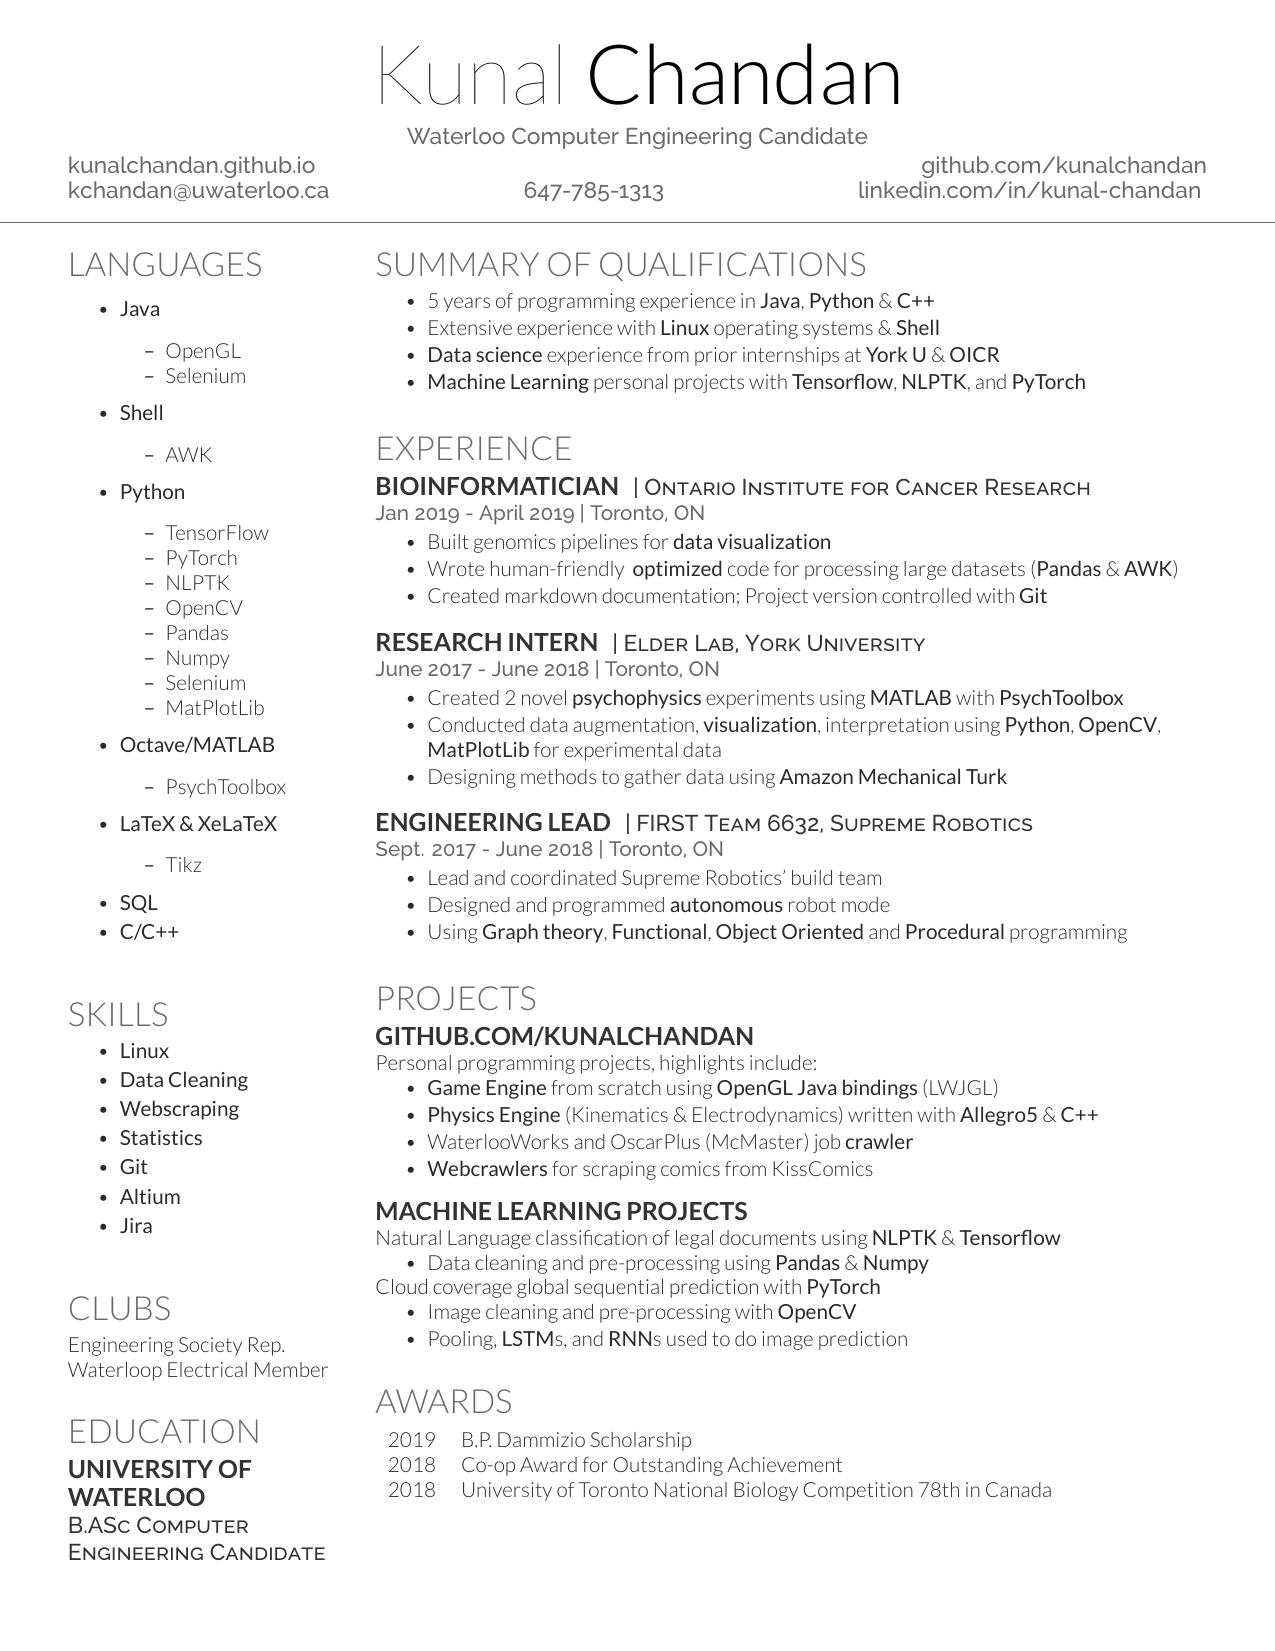
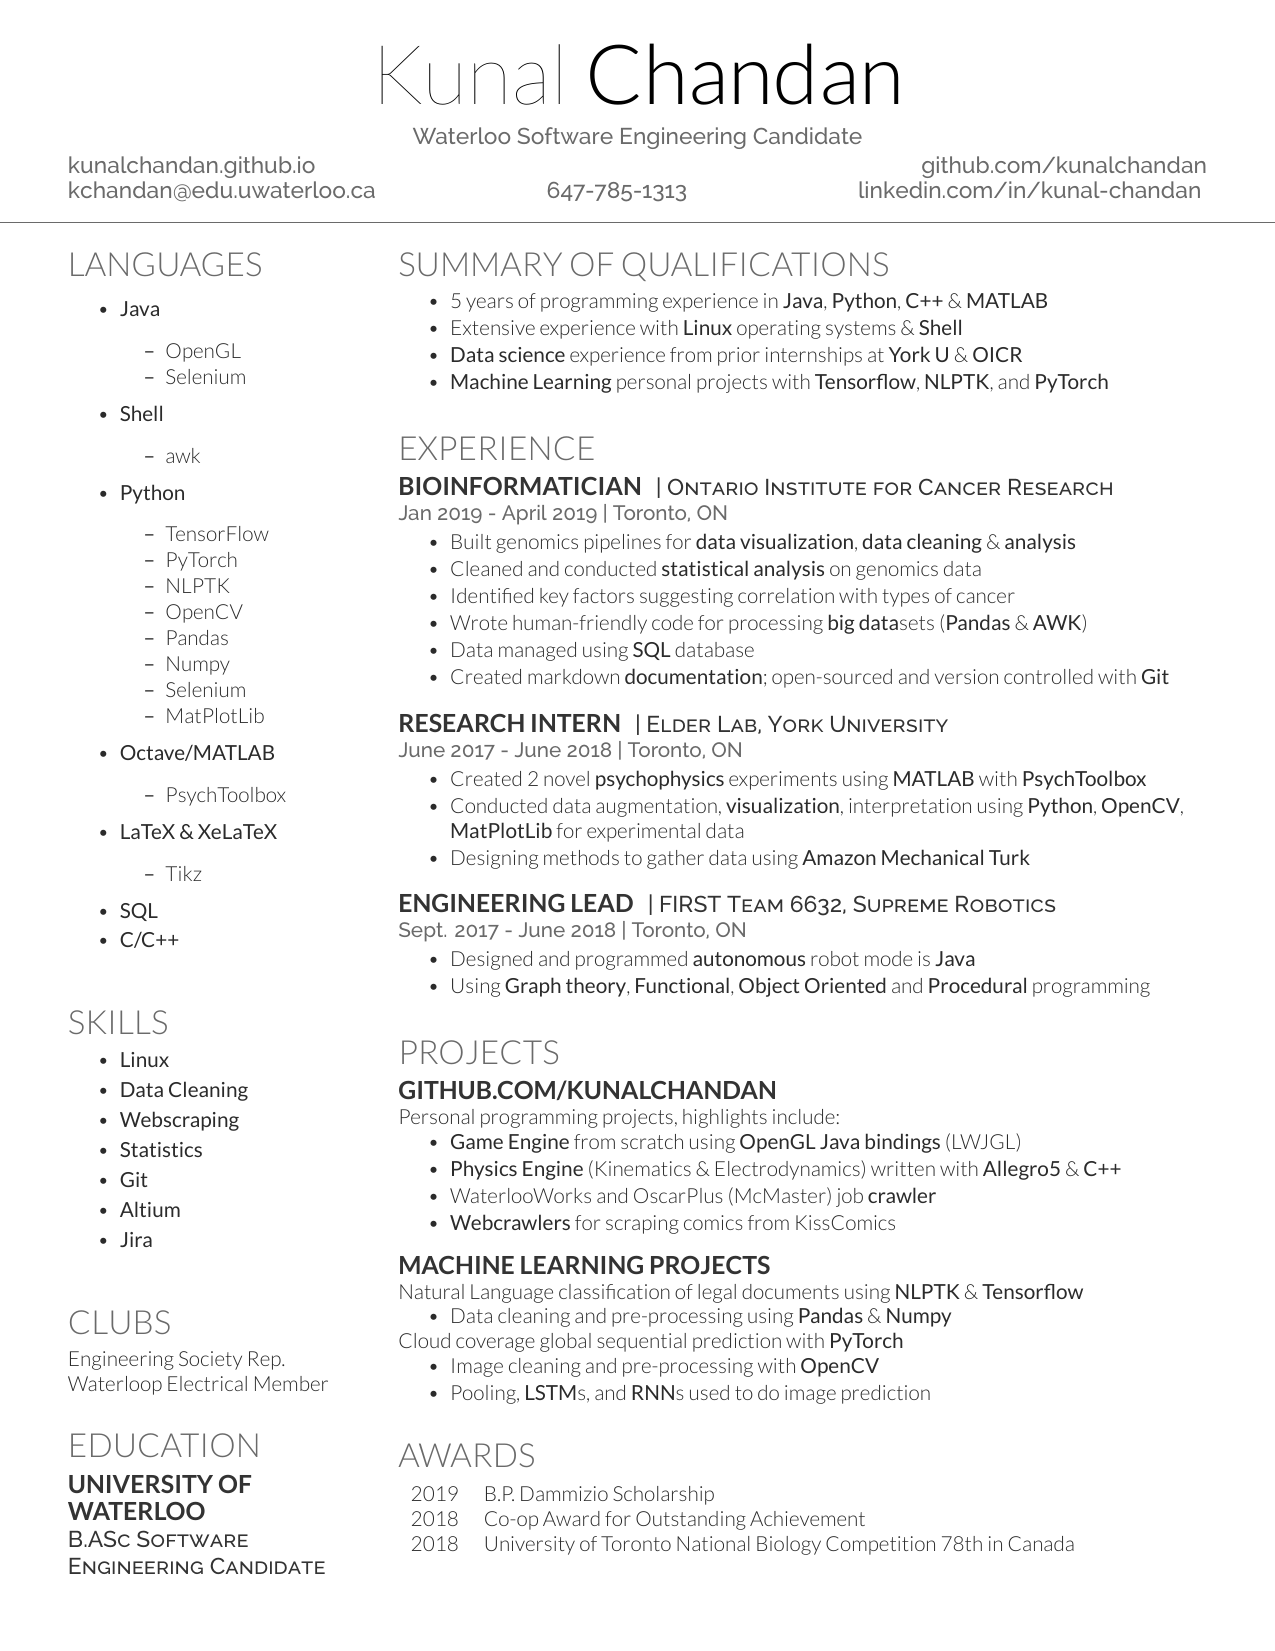
Edits before SE Resume Critique

diff --git a/Resume/Resume-Clean/chandan.tex b/Resume/Resume-Clean/chandan.tex
@@ -31,11 +31,11 @@
 \namesection{Kunal}{Chandan}
 {
 	\urlstyle{same}
-	Waterloo Computer Engineering Candidate \\
+	Waterloo Software Engineering Candidate \\
 	\href{http://kunalchandan.github.io}{kunalchandan.github.io}
 	\hfill
 	\href{http://github.com/kunalchandan}{github.com/kunalchandan}\\
-	\href{mailto:kchandan@uwaterloo.ca}{kchandan@uwaterloo.ca}
+	\href{mailto:kchandan@edu.uwaterloo.ca}{kchandan@edu.uwaterloo.ca}
 	\hfill
 	647-785-1313
 	\hfill
@@ -48,7 +48,7 @@
 %
 %%%%%%%%%%%%%%%%%%%%%%%%%%%%%%%%%%%%%%
 
-\begin{minipage}[t]{0.26\textwidth}
+\begin{minipage}[t]{0.27\textwidth}
 
 %%%%%%%%%%%%%%%%%%%%%%%%%%%%%%%%%%%%%%
 %     SKILLS
@@ -59,18 +59,18 @@
 		\setlength\itemsep{-0.2em}
 		\item \textbf{Java}
 			\begin{itemize}
-				\setlength\itemsep{-0.2em}
+				\setlength\itemsep{-0.15em}
 				\item OpenGL
 				\item Selenium
 			\end{itemize}
 		\item \textbf{Shell}
 			\begin{itemize}
-				\setlength\itemsep{-0.2em}
-				\item AWK
+				\setlength\itemsep{-0.15em}
+				\item awk
 			\end{itemize}
 		\item \textbf{Python}
 			\begin{itemize}
-				\setlength\itemsep{-0.2em}
+				\setlength\itemsep{-0.15em}
 				\item TensorFlow
 				\item PyTorch
 				\item NLPTK
@@ -82,12 +82,12 @@
 			\end{itemize}
 		\item \textbf{Octave/MATLAB}
 			\begin{itemize}
-				\setlength\itemsep{-0.2em}
+				\setlength\itemsep{-0.15em}
 				\item PsychToolbox
 			\end{itemize}
 		\item \textbf{LaTeX \& XeLaTeX}
 			\begin{itemize}
-				\setlength\itemsep{-0.2em}
+				\setlength\itemsep{-0.15em}
 				\item Tikz
 			\end{itemize}
 		\item \textbf{SQL}
@@ -101,7 +101,7 @@
 
 \section{Skills}
 	\begin{itemize}
-		\setlength\itemsep{-0.2em}
+		\setlength\itemsep{-0.15em}
 		\item \textbf{Linux}
 		\item \textbf{Data Cleaning}
 		\item \textbf{Webscraping}
@@ -130,7 +130,7 @@ Waterloop Electrical Member
 
 \subsection{University of \\
 Waterloo}
-\descript{B.ASc Computer Engineering Candidate}
+\descript{B.ASc Software Engineering Candidate}
 \sectionsep
 
 %\subsection{Northview Heights SS}
@@ -146,7 +146,7 @@ Waterloo}
 
 \end{minipage}
 \hfill
-\begin{minipage}[t]{0.73\textwidth}
+\begin{minipage}[t]{0.71\textwidth}
 
 %%%%%%%%%%%%%%%%%%%%%%%%%%%%%%%%%%%%%%
 %     Summary of Qualifications
@@ -158,7 +158,7 @@ Waterloo}
 \location{ }
 \vspace{\topsep} % Hacky fix for awkward extra vertical space
 \begin{tightemize}
-	\item 5 years of programming experience in \textbf{Java}, \textbf{Python} \& \textbf{C++}
+	\item 5 years of programming experience in \textbf{Java}, \textbf{Python}, \textbf{C++} \& \textbf{MATLAB}
 	\item Extensive experience with \textbf{Linux} operating systems \& \textbf{Shell}
 	\item \textbf{Data science} experience from prior internships at \textbf{York U} \& \textbf{OICR}
 	\item \textbf{Machine Learning} personal projects with \textbf{Tensorflow}, \textbf{NLPTK}, and \textbf{PyTorch}
@@ -174,9 +174,12 @@ Waterloo}
 \descript{| Ontario Institute for Cancer Research}
 \location{Jan 2019 - April 2019 | Toronto, ON}
 \begin{tightemize}
-	\item Built genomics pipelines for \textbf{data visualization}
-	\item Wrote human-friendly & \textbf{optimized} code for processing large datasets (\textbf{Pandas} \& \textbf{AWK})
-	\item Created markdown documentation; Project version controlled with \textbf{Git}
+	\item Built genomics pipelines for \textbf{data visualization}, \textbf{data cleaning} \& \textbf{analysis}
+	\item Cleaned and conducted \textbf{statistical analysis} on genomics data
+	\item Identified key factors suggesting correlation with types of cancer
+	\item Wrote human-friendly code for processing \textbf{big data}sets (\textbf{Pandas} \& \textbf{AWK})
+	\item Data managed using \textbf{SQL} database
+	\item Created markdown \textbf{documentation}; open-sourced and version controlled with \textbf{Git}
 \end{tightemize}
 \sectionsep
 
@@ -194,8 +197,7 @@ Waterloo}
 \descript{| FIRST Team 6632, Supreme Robotics}
 \location{Sept. 2017 - June 2018 | Toronto, ON}
 \begin{tightemize}
-	\item Lead and coordinated Supreme Robotics' build team
-	\item Designed and programmed \textbf{autonomous} robot mode
+	\item Designed and programmed \textbf{autonomous} robot mode is \textbf{Java}
 	\item Using \textbf{Graph theory}, \textbf{Functional}, \textbf{Object Oriented} and \textbf{Procedural} programming
 \end{tightemize}
 \sectionsep
